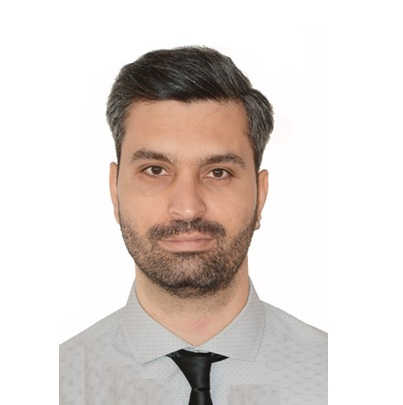
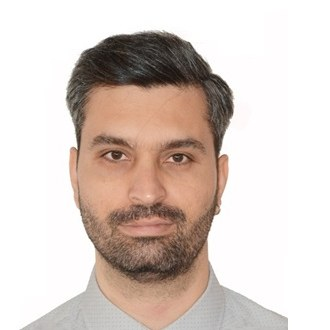
Add page h1 headers site-wide and alumni graduation years
- Research, Publications, Teaching and Contact get a page-hero h1 with
  intro, matching People (one h1 per page)
- Alumni cards show the graduation year after the role
- Contact address: Türkiye
- Tighter crop of Murat Kutlu's new photo

Changed region(s): [[0.0606, 0.0909, 0.8788, 1.0]]

diff --git a/people.html b/people.html
@@ -63,9 +63,9 @@
 
   <main id="main" class="container people-page">
     <!-- ========================= Page Header ========================= -->
-    <header class="people-hero">
-      <h1 class="page-title">People</h1>
-      <p class="people-intro">Graduate and undergraduate researchers in the Vibrations Lab at Gebze Technical University, working on rotor dynamics, nonlinear vibrations, wave propagation in periodic structures, condition monitoring and learning-based control.</p>
+    <header class="page-hero">
+      <h1>People</h1>
+      <p class="page-intro">Graduate and undergraduate researchers in the Vibrations Lab at Gebze Technical University, working on rotor dynamics, nonlinear vibrations, wave propagation in periodic structures, condition monitoring and learning-based control.</p>
       <ul class="people-stats" aria-label="Group at a glance">
         <li><span class="people-stat-n" data-count-for="current-heading-list">2</span><span class="people-stat-l">Current students</span></li>
         <li><span class="people-stat-n" data-count-for="grad-heading-list">3</span><span class="people-stat-l">M.Sc. alumni</span></li>
@@ -77,6 +77,7 @@
       To add a person: copy one <article class="person-card"> block into the right
       section, put a square photo (at least 256 x 256 px) in PeoplePage/, and
       update the name, role, thesis/project title and LinkedIn link.
+      Alumni: add the graduation year after the role, e.g. <span class="person-year">2025</span>.
       Section and header counts update automatically.
       Ph.D. students: role "Ph.D. student", label "Dissertation", in Current Students.
       Ph.D. graduates: add a "Ph.D. Alumni" section above M.Sc. Alumni.
@@ -122,7 +123,7 @@
           <img class="person-photo" src="PeoplePage/Murat Kutlu.jpg" alt="Murat Kutlu" width="72" height="72" loading="lazy" decoding="async">
           <div class="person-body">
             <h3 class="person-name">Murat Kutlu</h3>
-            <p class="person-role">M.Sc. alumnus</p>
+            <p class="person-role">M.Sc. alumnus<span class="person-year">2025</span></p>
             <p class="person-topic"><span class="person-topic-label">Thesis</span>Dynamic Behavior of Rotor Systems With Belleville Washer-Induced Support Nonlinearity</p>
             <a class="person-link" href="https://www.linkedin.com/in/muratkutlu/" target="_blank" rel="noopener noreferrer" aria-label="Murat Kutlu on LinkedIn"><svg class="i" aria-hidden="true"><use href="#i-linkedin"/></svg>LinkedIn</a>
           </div>
@@ -132,7 +133,7 @@
           <img class="person-photo" src="PeoplePage/Onur Erdoğan.jpg" alt="Onur Erdoğan" width="72" height="72" loading="lazy" decoding="async">
           <div class="person-body">
             <h3 class="person-name">Onur Erdoğan</h3>
-            <p class="person-role">M.Sc. alumnus</p>
+            <p class="person-role">M.Sc. alumnus<span class="person-year">2024</span></p>
             <p class="person-topic"><span class="person-topic-label">Thesis</span>Mathematical Modeling and Analysis of a Ship-Mounted Crane With Shock Absorber</p>
             <a class="person-link" href="https://www.linkedin.com/in/onur--erdogan/" target="_blank" rel="noopener noreferrer" aria-label="Onur Erdoğan on LinkedIn"><svg class="i" aria-hidden="true"><use href="#i-linkedin"/></svg>LinkedIn</a>
           </div>
@@ -142,7 +143,7 @@
           <img class="person-photo" src="PeoplePage/Furkan Çopur.jpg" alt="Furkan Çopur" width="72" height="72" loading="lazy" decoding="async">
           <div class="person-body">
             <h3 class="person-name">Furkan Çopur</h3>
-            <p class="person-role">M.Sc. alumnus</p>
+            <p class="person-role">M.Sc. alumnus<span class="person-year">2024</span></p>
             <p class="person-topic"><span class="person-topic-label">Thesis</span>A Unified Model for Internal Rotordynamic Stability Based on Complex Coordinates Formulation</p>
             <a class="person-link" href="https://www.linkedin.com/in/furkancopur/" target="_blank" rel="noopener noreferrer" aria-label="Furkan Çopur on LinkedIn"><svg class="i" aria-hidden="true"><use href="#i-linkedin"/></svg>LinkedIn</a>
           </div>
@@ -161,7 +162,7 @@
           <img class="person-photo" src="PeoplePage/Hüseyin Aydın.jpg" alt="Hüseyin Aydın" width="72" height="72" loading="lazy" decoding="async">
           <div class="person-body">
             <h3 class="person-name">Hüseyin Aydın</h3>
-            <p class="person-role">Undergraduate alumnus</p>
+            <p class="person-role">Undergraduate alumnus<span class="person-year">2025</span></p>
             <p class="person-topic"><span class="person-topic-label">Project</span>Wave Propagation Analysis in Periodic Sandwich Structures</p>
             <a class="person-link" href="https://www.linkedin.com/in/h%C3%BCseyin-ayd%C4%B1n-a29242207/?locale=en" target="_blank" rel="noopener noreferrer" aria-label="Hüseyin Aydın on LinkedIn"><svg class="i" aria-hidden="true"><use href="#i-linkedin"/></svg>LinkedIn</a>
           </div>
@@ -171,7 +172,7 @@
           <img class="person-photo" src="PeoplePage/Emir Mert Polat.jpg" alt="Emir Mert Polat" width="72" height="72" loading="lazy" decoding="async">
           <div class="person-body">
             <h3 class="person-name">Emir Mert Polat</h3>
-            <p class="person-role">Undergraduate alumnus</p>
+            <p class="person-role">Undergraduate alumnus<span class="person-year">2025</span></p>
             <p class="person-topic"><span class="person-topic-label">Project</span>Wave Propagation Analysis in Periodic Sandwich Structures</p>
             <a class="person-link" href="https://www.linkedin.com/in/emir-mert-polat-468abb220/" target="_blank" rel="noopener noreferrer" aria-label="Emir Mert Polat on LinkedIn"><svg class="i" aria-hidden="true"><use href="#i-linkedin"/></svg>LinkedIn</a>
           </div>
@@ -181,7 +182,7 @@
           <img class="person-photo" src="PeoplePage/Onur Söylemez.jpg" alt="Onur Söylemez" width="72" height="72" loading="lazy" decoding="async">
           <div class="person-body">
             <h3 class="person-name">Onur Söylemez</h3>
-            <p class="person-role">Undergraduate alumnus</p>
+            <p class="person-role">Undergraduate alumnus<span class="person-year">2024</span></p>
             <p class="person-topic"><span class="person-topic-label">Project</span>Health Monitoring of Rotor Bearing System Based on Time–Frequency Vibration Signals Using EMD and Clustering Techniques</p>
             <a class="person-link" href="https://www.linkedin.com/in/onur-s%C3%B6ylemez-089674362/" target="_blank" rel="noopener noreferrer" aria-label="Onur Söylemez on LinkedIn"><svg class="i" aria-hidden="true"><use href="#i-linkedin"/></svg>LinkedIn</a>
           </div>
@@ -191,7 +192,7 @@
           <img class="person-photo" src="PeoplePage/Hıdır Can KAYA.jpg" alt="Hıdır Can Kaya" width="72" height="72" loading="lazy" decoding="async">
           <div class="person-body">
             <h3 class="person-name">Hıdır Can Kaya</h3>
-            <p class="person-role">Undergraduate alumnus</p>
+            <p class="person-role">Undergraduate alumnus<span class="person-year">2024</span></p>
             <p class="person-topic"><span class="person-topic-label">Project</span>Health Monitoring of Rotor Bearing System Based on Time–Frequency Vibration Signals Using EMD and Clustering Techniques</p>
             <a class="person-link" href="https://www.linkedin.com/in/h%C4%B1d%C4%B1r-can-kaya-907712355/" target="_blank" rel="noopener noreferrer" aria-label="Hıdır Can Kaya on LinkedIn"><svg class="i" aria-hidden="true"><use href="#i-linkedin"/></svg>LinkedIn</a>
           </div>
@@ -201,7 +202,7 @@
           <img class="person-photo" src="PeoplePage/Eren Bilici.jpg" alt="Eren Bilici" width="72" height="72" loading="lazy" decoding="async">
           <div class="person-body">
             <h3 class="person-name">Eren Bilici</h3>
-            <p class="person-role">Undergraduate alumnus</p>
+            <p class="person-role">Undergraduate alumnus<span class="person-year">2024</span></p>
             <p class="person-topic"><span class="person-topic-label">Project</span>Health Monitoring of Rotor Bearing System Based on Time–Frequency Vibration Signals Using EMD and Clustering Techniques</p>
             <a class="person-link" href="https://www.linkedin.com/in/eren-bilici-32814024a/" target="_blank" rel="noopener noreferrer" aria-label="Eren Bilici on LinkedIn"><svg class="i" aria-hidden="true"><use href="#i-linkedin"/></svg>LinkedIn</a>
           </div>
@@ -211,7 +212,7 @@
           <img class="person-photo" src="PeoplePage/İbrahim Ethem Kaya.jpg" alt="İbrahim Ethem Kaya" width="72" height="72" loading="lazy" decoding="async">
           <div class="person-body">
             <h3 class="person-name">İbrahim Ethem Kaya</h3>
-            <p class="person-role">Undergraduate alumnus</p>
+            <p class="person-role">Undergraduate alumnus<span class="person-year">2024</span></p>
             <p class="person-topic"><span class="person-topic-label">Project</span>Kinematics of Multi-Degree-of-Freedom Robot Arm</p>
             <a class="person-link" href="https://www.linkedin.com/in/ibrahim-ethem-kaya-8b82b9209/" target="_blank" rel="noopener noreferrer" aria-label="İbrahim Ethem Kaya on LinkedIn"><svg class="i" aria-hidden="true"><use href="#i-linkedin"/></svg>LinkedIn</a>
           </div>
@@ -221,7 +222,7 @@
           <img class="person-photo" src="PeoplePage/Emre Eyüboğlu.jpg" alt="Emre Eyüboğlu" width="72" height="72" loading="lazy" decoding="async">
           <div class="person-body">
             <h3 class="person-name">Emre Eyüboğlu</h3>
-            <p class="person-role">Undergraduate alumnus</p>
+            <p class="person-role">Undergraduate alumnus<span class="person-year">2024</span></p>
             <p class="person-topic"><span class="person-topic-label">Project</span>Dynamics of Rotating Blades</p>
             <a class="person-link" href="https://www.linkedin.com/in/emreeyuboglu/" target="_blank" rel="noopener noreferrer" aria-label="Emre Eyüboğlu on LinkedIn"><svg class="i" aria-hidden="true"><use href="#i-linkedin"/></svg>LinkedIn</a>
           </div>
@@ -231,7 +232,7 @@
           <img class="person-photo" src="PeoplePage/Merve Kaya.jpg" alt="Merve Kaya" width="72" height="72" loading="lazy" decoding="async">
           <div class="person-body">
             <h3 class="person-name">Merve Kaya</h3>
-            <p class="person-role">Undergraduate alumna</p>
+            <p class="person-role">Undergraduate alumna<span class="person-year">2024</span></p>
             <p class="person-topic"><span class="person-topic-label">Project</span>Anomaly Detection of Rotor Bearing Systems With AI and Vibration Signals</p>
             <a class="person-link" href="https://www.linkedin.com/in/mervekayaa/" target="_blank" rel="noopener noreferrer" aria-label="Merve Kaya on LinkedIn"><svg class="i" aria-hidden="true"><use href="#i-linkedin"/></svg>LinkedIn</a>
           </div>
@@ -241,7 +242,7 @@
           <img class="person-photo" src="PeoplePage/Kadir Sağlam.jpg" alt="Kadir Sağlam" width="72" height="72" loading="lazy" decoding="async">
           <div class="person-body">
             <h3 class="person-name">Kadir Sağlam</h3>
-            <p class="person-role">Undergraduate alumnus</p>
+            <p class="person-role">Undergraduate alumnus<span class="person-year">2023</span></p>
             <p class="person-topic"><span class="person-topic-label">Project</span>Health Monitoring of Rotor-Bearing Systems Based on Vibration Signals</p>
             <a class="person-link" href="https://www.linkedin.com/in/saglamkadir/" target="_blank" rel="noopener noreferrer" aria-label="Kadir Sağlam on LinkedIn"><svg class="i" aria-hidden="true"><use href="#i-linkedin"/></svg>LinkedIn</a>
           </div>

diff --git a/style.css b/style.css
@@ -921,9 +921,10 @@ html.pv-lock { overflow: hidden; }
 .teaching-philosophy { max-width: var(--measure); color: var(--ink-2); line-height: 1.8; }
 
 /* ---------------------------------------------------------------- People */
-.people-hero { padding-bottom: 28px; margin-bottom: 40px; border-bottom: 1px solid var(--line); }
-.people-hero .page-title { margin-bottom: 14px; }
-.people-intro { max-width: var(--measure); color: var(--ink-2); font-size: 1.05rem; line-height: 1.7; margin-bottom: 26px; }
+.page-hero { padding-bottom: 28px; margin-bottom: 40px; border-bottom: 1px solid var(--line); }
+.page-hero h1 { margin-bottom: 14px; }
+.page-intro { max-width: var(--measure); color: var(--ink-2); font-size: 1.05rem; line-height: 1.7; margin-bottom: 26px; }
+.page-intro:last-child { margin-bottom: 0; }
 .people-stats { display: flex; flex-wrap: wrap; gap: 12px 40px; list-style: none; margin: 0; padding: 0; }
 .people-stats li { display: flex; align-items: baseline; gap: 10px; }
 .people-stat-n { font-family: var(--font-mono); font-size: 1.6rem; font-weight: 600; color: var(--accent); line-height: 1; font-variant-numeric: tabular-nums; }
@@ -958,6 +959,8 @@ html.pv-lock { overflow: hidden; }
 .person-body { display: flex; flex-direction: column; align-self: stretch; min-width: 0; flex: 1; }
 .person-name { margin: 0 0 3px; font-size: 1.02rem; font-weight: 600; color: var(--ink); letter-spacing: -0.005em; }
 .person-role { margin: 0 0 10px; font-family: var(--font-mono); font-size: 0.7rem; letter-spacing: 0.06em; text-transform: uppercase; color: var(--accent); }
+.person-year { color: var(--muted); font-variant-numeric: tabular-nums; }
+.person-year::before { content: '·'; margin: 0 0.5em; }
 .person-topic { margin: 0 0 12px; font-size: 0.87rem; line-height: 1.55; color: var(--ink-2); }
 .person-topic-label {
   display: block; margin-bottom: 2px;
@@ -997,11 +1000,11 @@ html.pv-lock { overflow: hidden; }
 .btn-primary:hover .i { transform: translateX(3px); }
 
 @media (max-width: 560px) {
-  .people-hero { margin-bottom: 32px; }
+  .page-hero { margin-bottom: 32px; }
   .people-stats { gap: 14px 26px; }
   .people-stat-n { font-size: 1.35rem; }
   .people-section { margin-bottom: 40px; }
-  .people-intro { font-size: 0.98rem; line-height: 1.65; }
+  .page-intro { font-size: 0.98rem; line-height: 1.65; }
   .people-grid { gap: 12px; }
   .person-card, .is-featured .person-card { position: relative; padding: 16px; gap: 14px; }
   .person-photo { width: 56px; height: 56px; }

diff --git a/contact.html b/contact.html
@@ -82,12 +82,10 @@
 
   <!-- ========================= MAIN CONTENT ========================= -->
   <main id="main" class="container">
-    <p class="eyebrow"><span class="idx">01</span> Get in touch</p>
-    <h2>Contact</h2>
-
-    <p class="contact-intro">
-      For research collaborations, student inquiries, or academic correspondence, please feel free to get in touch by email.
-    </p>
+    <header class="page-hero">
+      <h1>Contact</h1>
+      <p class="page-intro">For research collaborations, student inquiries, or academic correspondence, please feel free to get in touch by email.</p>
+    </header>
 
     <!-- ========================= CONTACT DETAILS ========================= -->
     <div class="contact-info">
@@ -100,7 +98,7 @@
       <div class="contact-row"><strong>Room</strong> <span>123</span></div>
       <div class="contact-row"><strong>Email</strong> <span><a href="mailto:slotfan@gtu.edu.tr">slotfan@gtu.edu.tr</a></span></div>
       <div class="contact-row"><strong>Phone</strong> <span>+90 (262) 605 26 58</span></div>
-      <div class="contact-row"><strong>Office Address</strong> <span>Gebze Technical University, 41400 Gebze, Kocaeli, Turkey</span></div>
+      <div class="contact-row"><strong>Office Address</strong> <span>Gebze Technical University, 41400 Gebze, Kocaeli, Türkiye</span></div>
     </div>
 
     <!-- ========================= LOCATION MAP ========================= -->

diff --git a/publications.html b/publications.html
@@ -1032,14 +1032,9 @@
   </nav>
 
   <main id="main" class="container">
-    <header>
-      <p class="eyebrow"><span class="idx">03</span> Record</p>
-      <h2>Publications</h2>
-      <p class="publication-intro">
-        Journal articles, conference papers, and presentations by Saeed Lotfan in mechanical vibrations,
-        structural dynamics, nonlinear dynamics, rotordynamics, reduced-order modeling, computational mechanics,
-        and machine learning in engineering.
-      </p>
+    <header class="page-hero">
+      <h1>Publications</h1>
+      <p class="page-intro">Journal articles, conference papers, and presentations by Saeed Lotfan in mechanical vibrations, structural dynamics, nonlinear dynamics, rotordynamics, reduced-order modeling, computational mechanics, and machine learning in engineering.</p>
     </header>
 
     <section aria-labelledby="publication-controls-heading">

diff --git a/teaching.html b/teaching.html
@@ -102,6 +102,10 @@
   -->
 
   <main id="main" class="container">
+    <header class="page-hero">
+      <h1>Teaching</h1>
+      <p class="page-intro">Undergraduate and graduate courses at Gebze Technical University and the University of Tabriz. Syllabi, lecture slides and recitations are available as PDFs under each course.</p>
+    </header>
     <!-- ========================= CURRENT COURSES ========================= -->
     <p class="eyebrow"><span class="idx">01</span> Now teaching</p>
     <h2>Current Courses</h2>

diff --git a/research.html b/research.html
@@ -59,6 +59,10 @@
 
   <!-- ============================= Main Body ============================ -->
   <main id="main" class="container">
+    <header class="page-hero">
+      <h1>Research</h1>
+      <p class="page-intro">Structural dynamics, vibrations and computational mechanics at Gebze Technical University: research focus, interests and funded projects.</p>
+    </header>
 
     <!-- ======================== Research Summary ======================== -->
     <section aria-labelledby="research-summary-heading">
